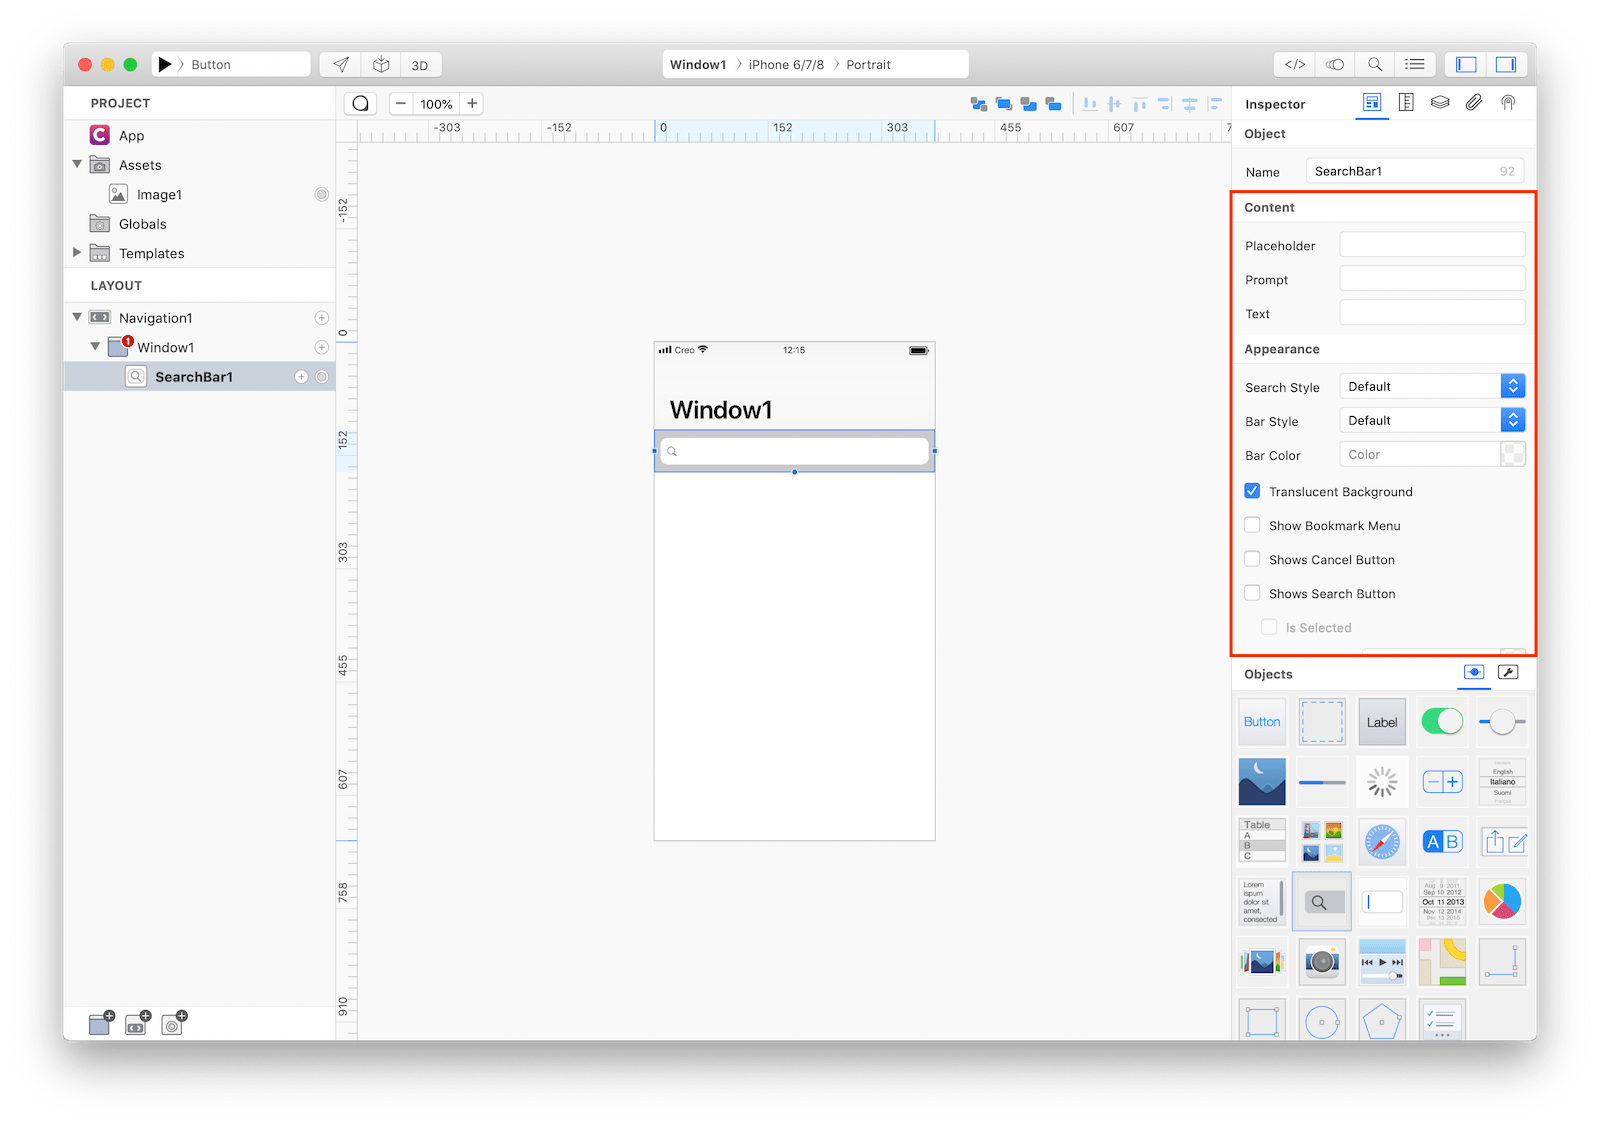
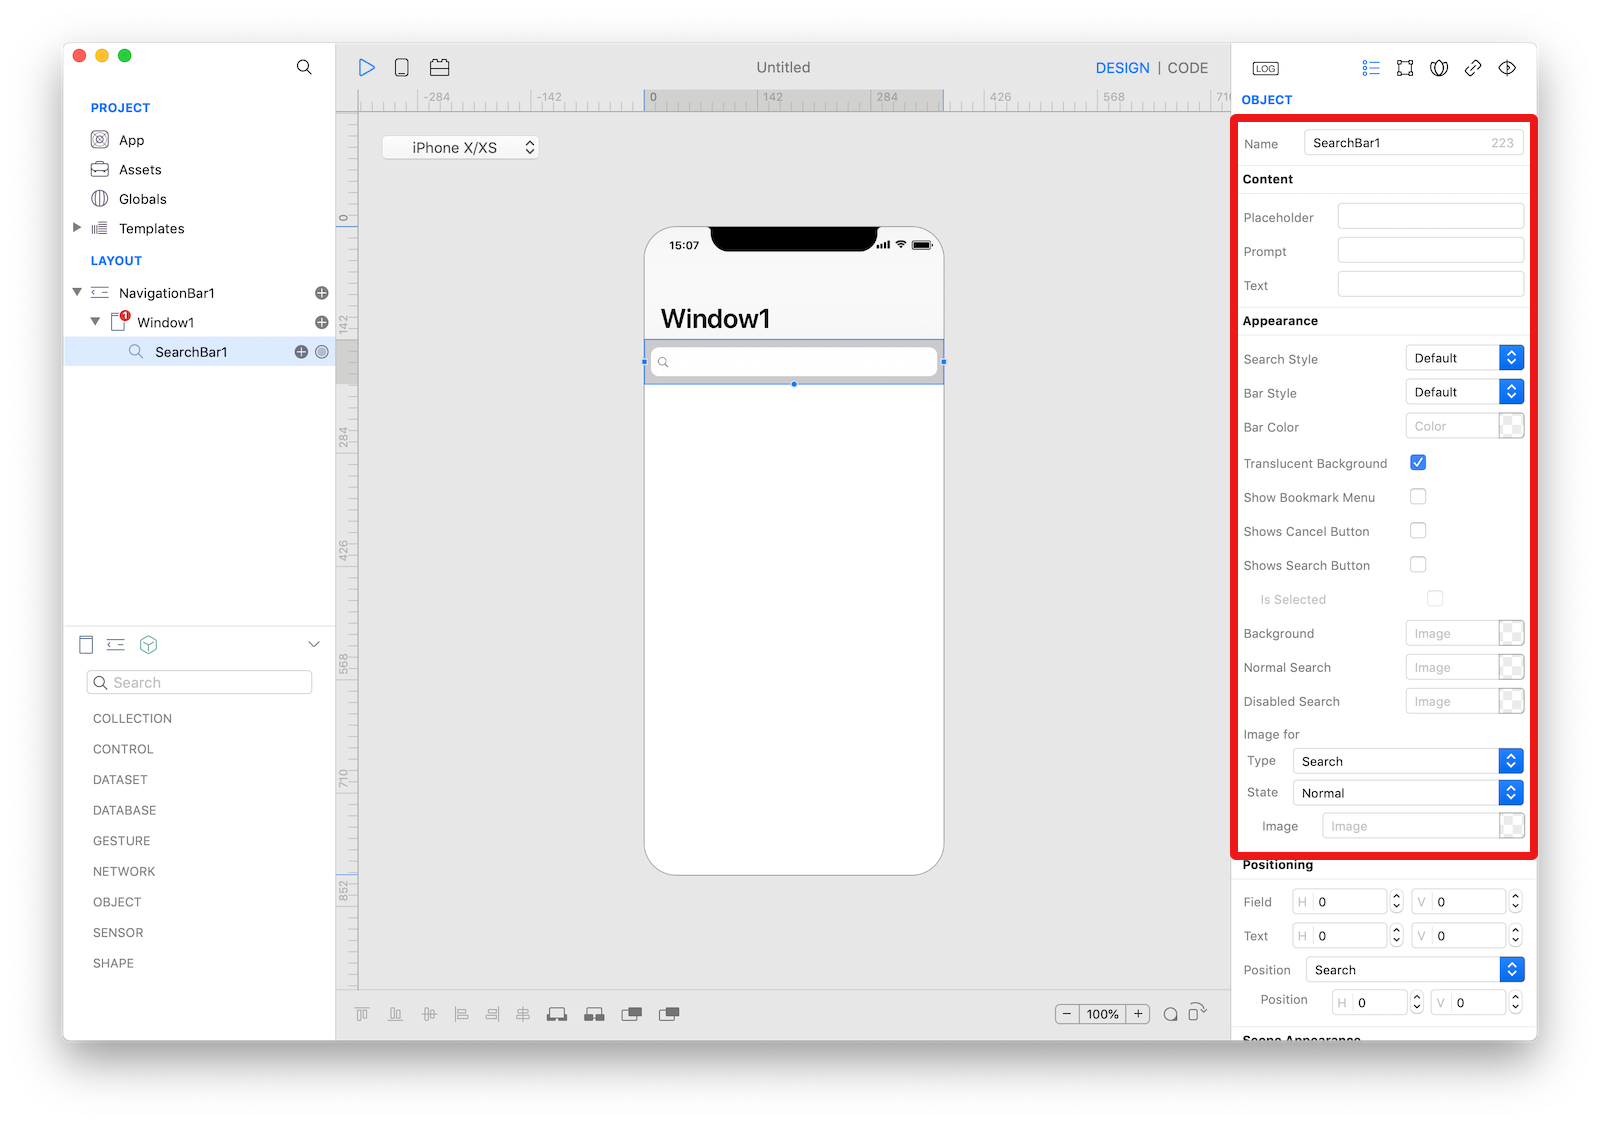
Updated SearchBar for Creo2

diff --git a/docs/creo/SearchBar.md b/docs/creo/SearchBar.md
@@ -1,6 +1,6 @@
 A search bar allows people to search through a large collection of values by typing text into a field. A search bar can be displayed alone, or in a navigation bar or content view. When displayed in a navigation bar, a search bar can be pinned to the navigation bar so it's always accessible, or it can be collapsed until the user swipes down to reveal it.
 
-![SearchBar](../images/creo/searchbar1.png)
+![SearchBar](../images/creo2/searchbar1.png)
 
 ### Best practices
 * **Use a search bar instead of a text field to implement search.** A text field doesn’t have the standard search bar appearance that people expect.
@@ -15,26 +15,26 @@ A search bar allows people to search through a large collection of values by typ
 
 If you need to write code for SearchBar:
 
-3. Open the `Code Editor` (cmd + 6)
+3. Open the `Code Editor`
 4. Select the `Changed` item inside the `Events` area and write your custom code in the `Code Editor`
 
-![`SearchBar` inspector](../images/creo/searchbar2.png)
+![`SearchBar` inspector](../images/creo2/searchbar2.png)
 The inspector where the `SearchBar` class can be configured.
 
 ### How to customize
 The `SearchBar` can be customized by tapping the subnode icons (+).
 
-![`SearchBar` customizations](../images/creo/searchbar3.png)
+![`SearchBar` customizations](../images/creo2/searchbar3.png)
 The `SearchBar` customizations.
 
 ### Keyboard Accessory View
 The custom accessory view to display when the search bar becomes active. The user can drop one or more controls in order to extend the default keyboard.
 
-![`SearchBar` keyboard accessory view](../images/creo/searchbar4.png)
+![`SearchBar` keyboard accessory view](../images/creo2/searchbar4.png)
 The `SearchBar` keyboard accessory view customization.
 
 ### Example
-1. Open the `Code Editor` (cmd + 6)
+1. Open the `Code Editor`
 2. Select the `Changed` item inside the `Events` area and write your custom code in the `Code Editor`
 ```
 Console.write("SearchBar searchText: \(searchText)")
